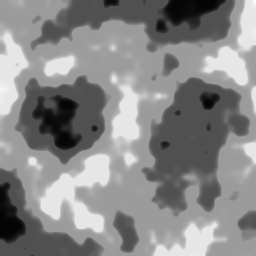
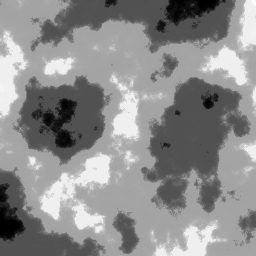
Make holds reachable from anywhere on the mountainside
The first mountain terrain put a hold within arm reach (0.34 m) at only 17%
of positions, so four spots in five had nothing to grab. A policy trained on
that would learn where the good ledges are, not how to climb -- and the
result would be about spawn luck.

Two changes, both measured:

  octaves 4 -> 7        finer detail creates edges between the coarse terraces
                        rather than only at them
  second terrace pass   a shallower, denser quantisation blended over the
                        coarse one, breaking up the broad flats
  z_scale 1.2 -> 2.0 m  taller risers

  before  17% of positions have a hold within arm reach
  after   65%

Stopped at z=2.0 rather than 2.5 (68%): at 2.5 the max step reaches 0.62 m,
knee height, which is an obstacle to walk around rather than a hold.

More terraces is not the lever -- past ~20 the steps fall below the 0.10 m a
hand can hook and coverage collapses to zero. Octave count is.

Also fixes a spawn bug this exposed. The spawn correction assumed a smooth
plane, so with 2 m of relief the robot started inside the rock: 60 of 60 feet
buried, 1.55 m under on average. reset() now lifts by the terrain's peak
height, measured from the hfield itself. After: 0 of 60 buried, minimum
clearance +0.40 m.

diff --git a/himalaya/env/terrain/make_mountain.py b/himalaya/env/terrain/make_mountain.py
@@ -46,7 +46,7 @@ def _value_noise(shape, cells, rng):
           + v01 * (1 - fy) * fx + v11 * fy * fx)
 
 
-def mountain_height(res=256, octaves=4, terrace_steps=6, seed=0):
+def mountain_height(res=256, octaves=7, terrace_steps=6, fine_steps=22, seed=0):
   """Return a float array in [0,1]: fractal rock, terraced into ledges."""
   rng = np.random.default_rng(seed)
   h = np.zeros((res, res))
@@ -65,6 +65,17 @@ def mountain_height(res=256, octaves=4, terrace_steps=6, seed=0):
   q = np.floor(h * terrace_steps) / terrace_steps
   frac = h * terrace_steps - np.floor(h * terrace_steps)
   h = q + (frac ** 6) / terrace_steps
+
+  # A SECOND terracing pass, finer and shallower, applied on top of the coarse
+  # one. The coarse terraces give big ledges but leave broad flats between
+  # them, and a hold that exists only every few metres means most of the wall
+  # is unclimbable -- measured, single-pass terrain put a hold within arm reach
+  # (0.34 m) at only 17% of positions. The fine pass breaks those flats up so
+  # holds are distributed everywhere rather than concentrated at the coarse
+  # risers.
+  q2 = np.floor(h * fine_steps) / fine_steps
+  frac2 = h * fine_steps - np.floor(h * fine_steps)
+  h = 0.65 * h + 0.35 * (q2 + (frac2 ** 6) / fine_steps)
 
   h -= h.min()
   h /= h.max()

diff --git a/himalaya/env/base.py b/himalaya/env/base.py
@@ -109,6 +109,19 @@ class G1Env(mjx_env.MjxEnv):
         [-np.cos(self._slope_rad), 0.0, np.sin(self._slope_rad)]
     )
 
+    # Highest point of the terrain above its own mean plane. reset() lifts the
+    # spawn by this so the robot starts above the rock rather than inside it.
+    # A smooth-plane correction is not enough once the heightfield carries real
+    # relief: measured on the 2.0 m mountain terrain, every foot spawned an
+    # average of 1.55 m underground.
+    self._terrain_peak = 0.0
+    if self._mj_model.nhfield > 0:
+      nr = int(self._mj_model.hfield_nrow[0])
+      nc = int(self._mj_model.hfield_ncol[0])
+      z_top = float(self._mj_model.hfield_size[0][2])
+      hf = np.array(self._mj_model.hfield_data[: nr * nc])
+      self._terrain_peak = float(hf.max()) * z_top
+
     self._mjx_model = mjx.put_model(self._mj_model, impl=self._config.impl)
     self._xml_path = xml_path
 

diff --git a/himalaya/env/joystick.py b/himalaya/env/joystick.py
@@ -312,6 +312,12 @@ class Joystick(g1_base.G1Env):
         qpos = qpos.at[2].add(
             self._init_q[2] * (1.0 - jp.cos(self._slope_rad))
         )
+        # Clear the terrain's own relief. Spawning against the mean plane puts
+        # the robot inside any rock above it; on the 2.0 m mountain terrain
+        # that was every foot, ~1.55 m under. Starting at the peak costs a
+        # short drop onto the surface, which the policy handles, and is far
+        # cheaper than an episode that begins underground.
+        qpos = qpos.at[2].add(self._terrain_peak)
 
     # qpos[7:]=*U(0.5, 1.5)
     rng, key = jax.random.split(rng)

diff --git a/scripts/train.py b/scripts/train.py
@@ -55,7 +55,10 @@ def main():
     # Names the vendored env uses directly; Playground's registry was
     # translating its public "G1Joystick*Terrain" ids onto these.
     if args.climb is not None:
-        task = "slope_terrain"
+        # mountain_terrain, not slope_terrain: the stock rough hfield's 5 cm
+        # bumps are smaller than the hand capsule, so a palm can press on them
+        # but never hook one, and climbing cannot emerge.
+        task = "mountain_terrain"
         cfg = climb_config(args.climb)
     else:
         task = "rough_terrain" if args.rough else "flat_terrain"
